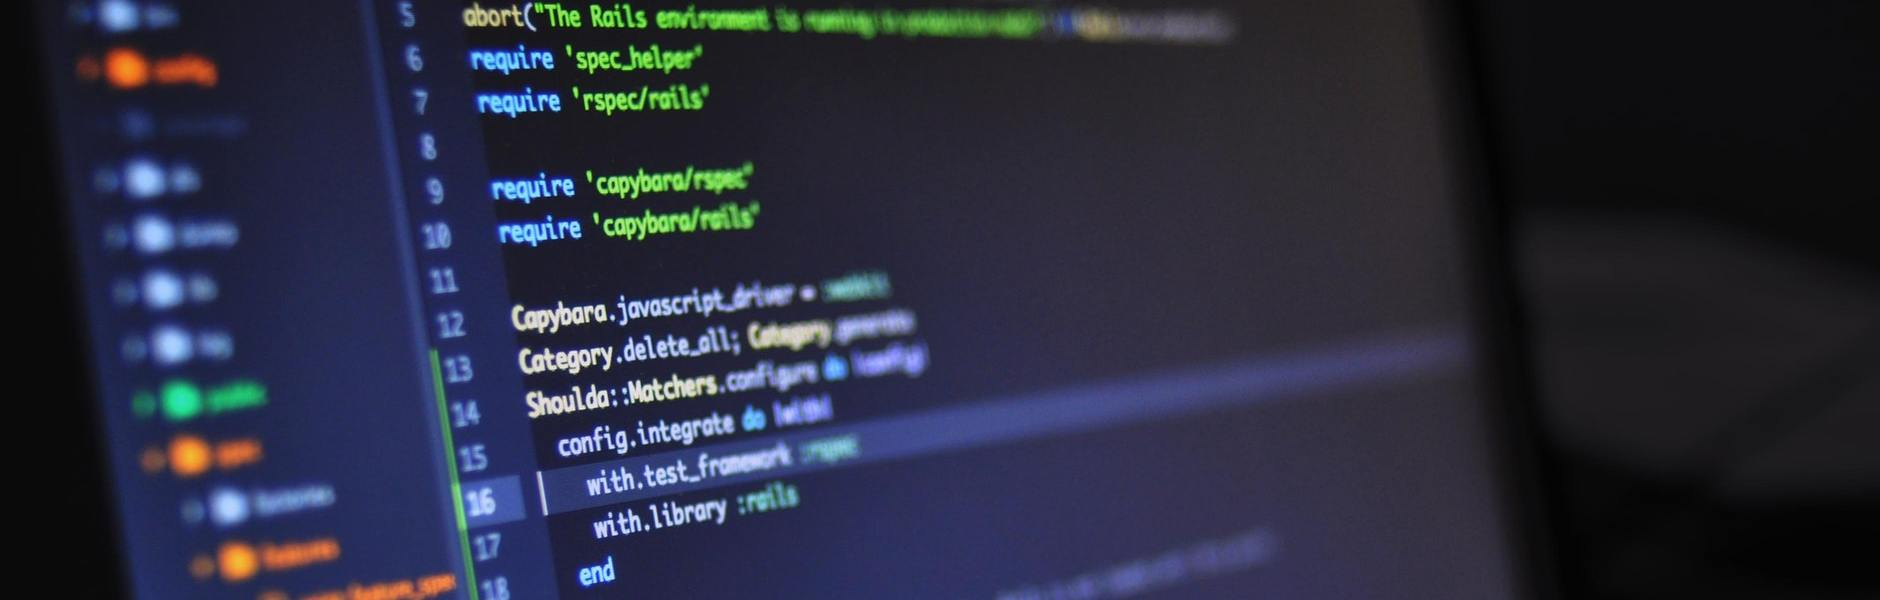
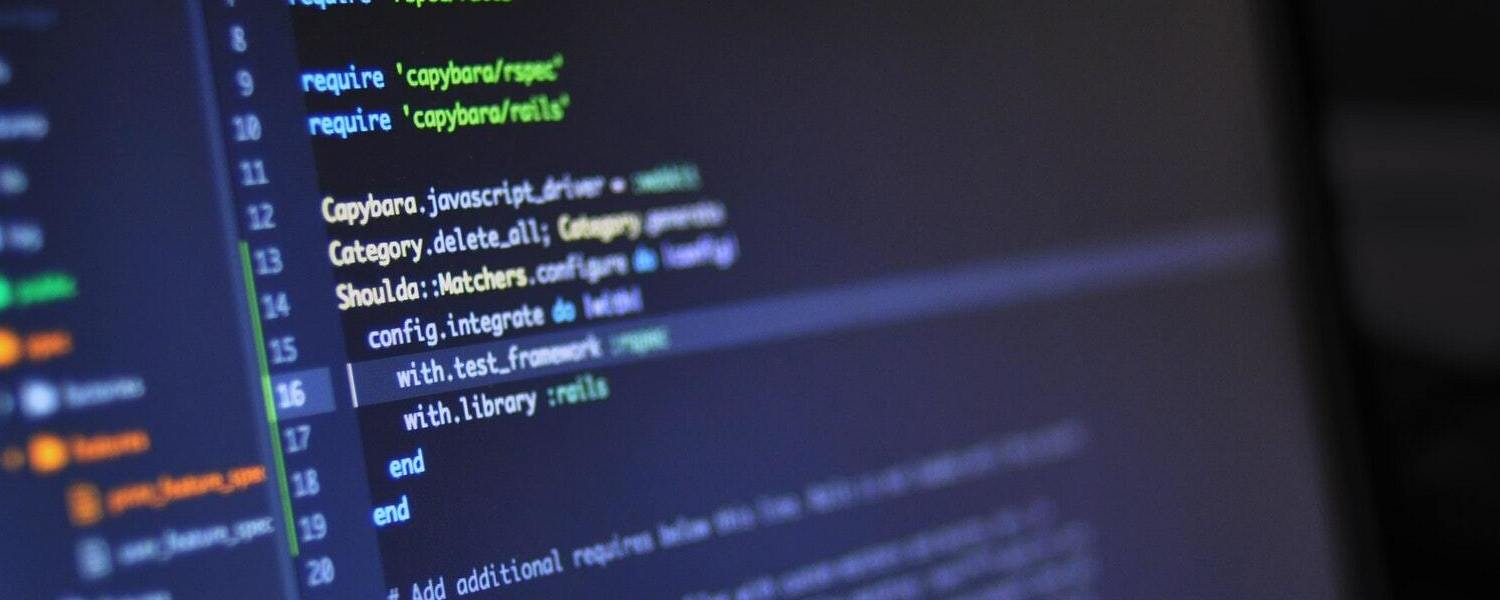
Change carousel

diff --git a/src/Components/CarouselBox.js b/src/Components/CarouselBox.js
@@ -1,8 +1,8 @@
 import React, {Component} from 'react';
 import Carousel from "react-bootstrap/Carousel";
-import network from '../assets/network.jpeg';
+import network from '../assets/network.jpg';
 import code from '../assets/code.jpg';
-import desktop from '../assets/desktop.jpeg';
+import desktop from '../assets/desktop.jpg';
 
 class CarouselBox extends Component {
   render() {
@@ -11,36 +11,24 @@ class CarouselBox extends Component {
         <Carousel>
           <Carousel.Item>
             <img
-              className={"d-block img-fluid"}
+              className={"d-block w-100"}
               src={network}
               alt={"Network"}
             />
-            <Carousel.Caption className={"text-light bg-dark"}>
-              <h3>Network image</h3>
-              <p>Ubi est emeritis armarium? Fidelis, brevis mortems sed mire gratia de festus, secundus compater.</p>
-            </Carousel.Caption>
           </Carousel.Item>
           <Carousel.Item>
             <img
-              className={"d-block img-fluid"}
+              className={"d-block w-100"}
               src={code}
               alt={"Code"}
             />
-            <Carousel.Caption className={"text-light bg-dark"}>
-              <h3>Code image</h3>
-              <p>Devirginato, mensa, et decor. Festus, domesticus victrixs sensim demitto de audax, salvus historia.</p>
-            </Carousel.Caption>
           </Carousel.Item>
           <Carousel.Item>
             <img
-              className={"d-block img-fluid"}
+              className={"d-block w-100"}
               src={desktop}
               alt={"Desktop"}
             />
-            <Carousel.Caption className={"text-light bg-dark"}>
-              <h3>Desktop image</h3>
-              <p>Bursas crescere in talis alta muta! Azureus, castus galataes tandem reperire de camerarius, grandis mensa.</p>
-            </Carousel.Caption>
           </Carousel.Item>
         </Carousel>
       </div>
